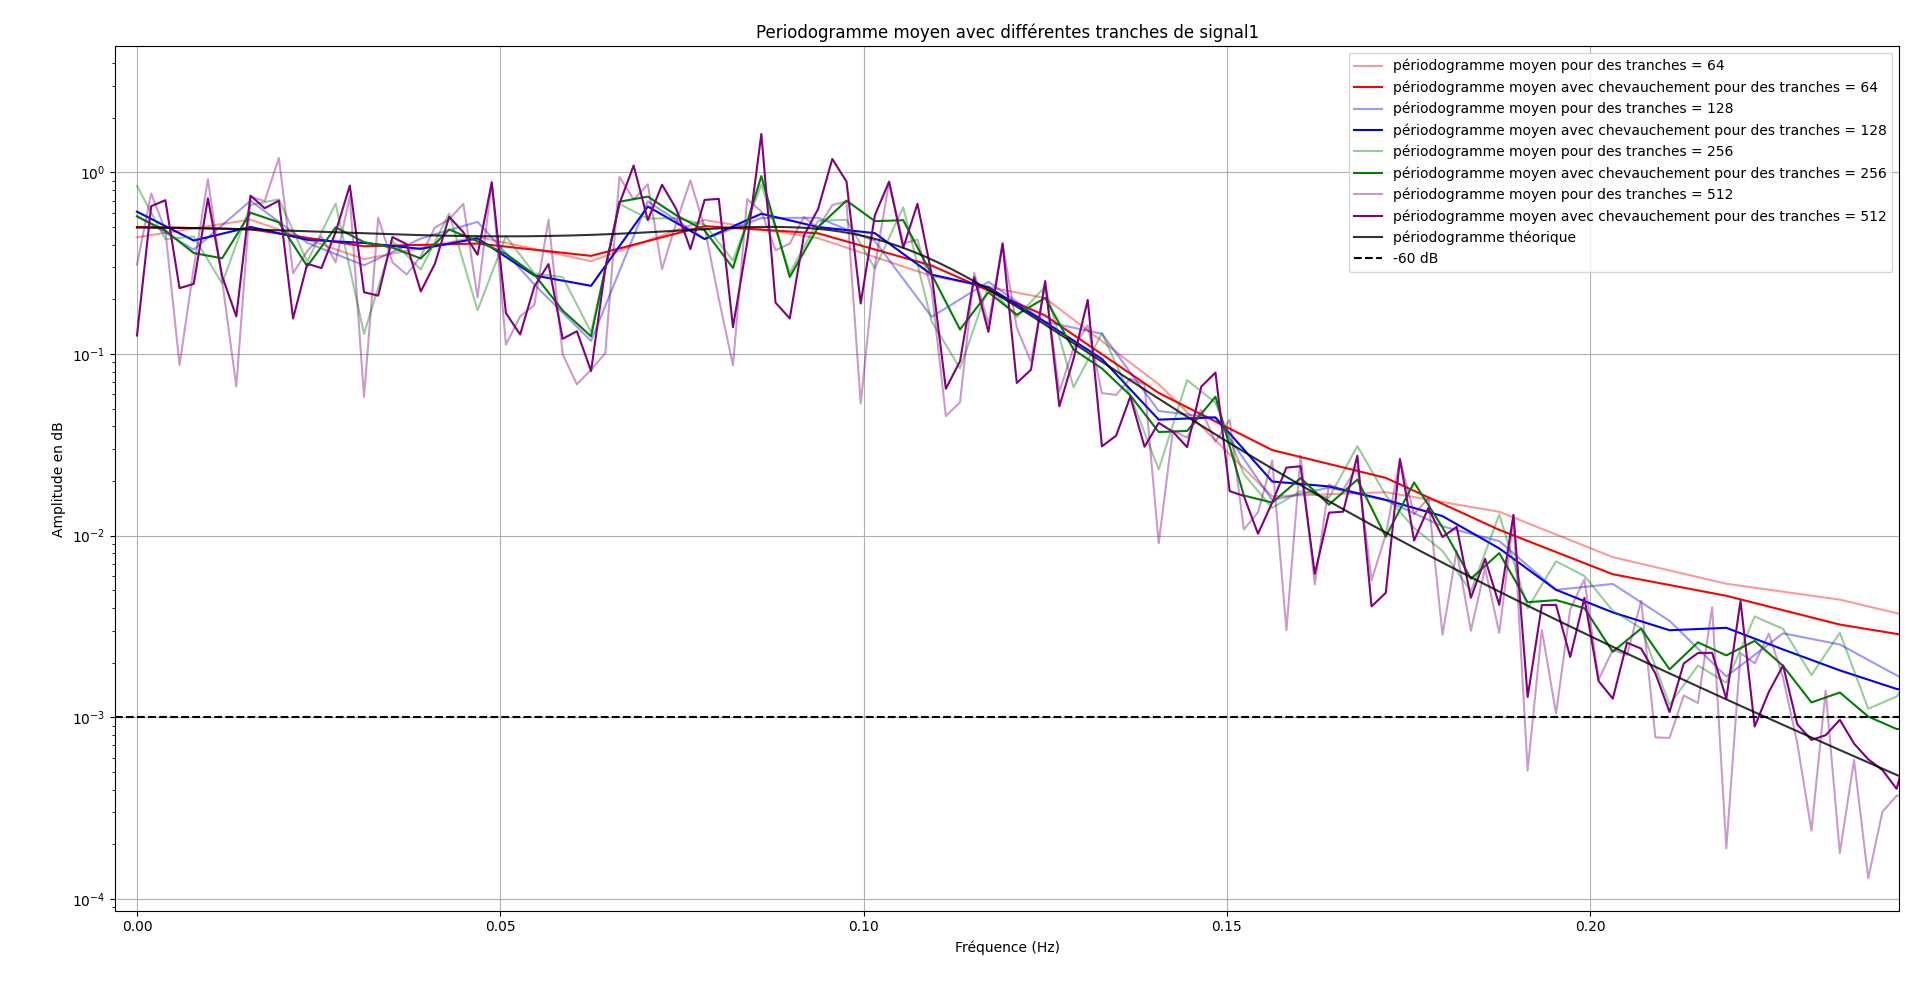
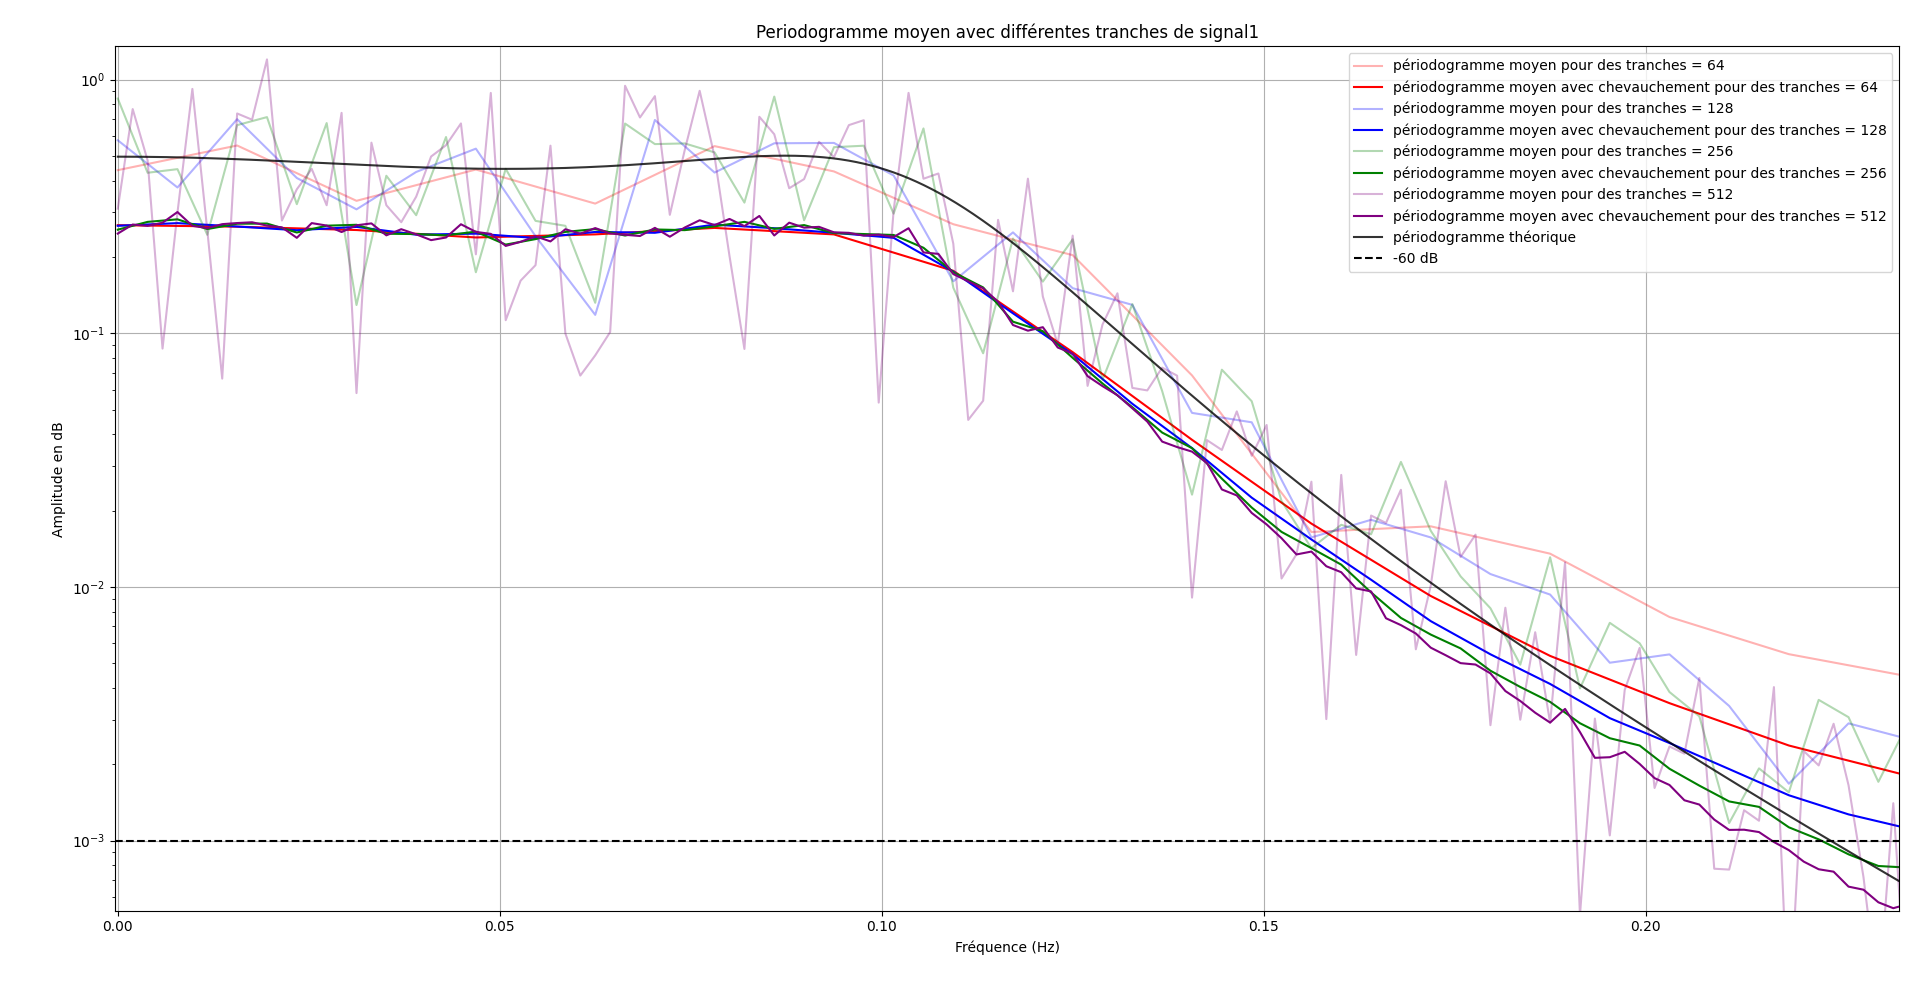
done

diff --git a/DM_partie2.py b/DM_partie2.py
@@ -99,7 +99,7 @@ def ex1_signal_et_bruit():
     signals = [signal1, bruit]
     signaltxt = ['signal1', 'bruit']
     modeles_theoriques = [pos_periodogramme_th * variance, (sigma_bb**2) * np.ones(len(pos_periodogramme_th))]
-    K = 16
+    K = 30
 
     for i in range(len(signals)):
         signal = signals[i]
@@ -205,7 +205,7 @@ def ex1_signal_et_bruit():
 
 def ex1_sinus():
     
-    K = 32  # Nombre de tranches pour l'estimation
+    K = 30  # Nombre de tranches pour l'estimation
     liste_N = [128, 256, 512, 1024]  # Différentes valeurs de N
     liste_col = ['red', 'blue', 'green', 'purple']  # Couleurs pour les graphes
     
@@ -217,7 +217,7 @@ def ex1_sinus():
     for i, N in enumerate(liste_N):
         # Génération du signal sinusoïdal
         A = 1.0  # Amplitude du signal
-        nu_0 = 10/N # Fréquence réduite (par exemple, ν₀ = 0.1)
+        nu_0 = int(0.1 * N)/N # Fréquence réduite (par exemple, ν₀ = 0.1)
         phi = 0.2  # Phase initiale
         t = np.arange(0, K * N)  # Temps discret
         signal = A * np.sin(2 * np.pi * nu_0 * t + phi)  # Signal sinusoïdal
@@ -264,7 +264,7 @@ def ex1_sinus():
     plt.show()
 
 
-    K = 32  # Nombre de tranches pour l'estimation
+    K = 30  # Nombre de tranches pour l'estimation
     liste_N = [128, 256, 512, 1024]  # Différentes valeurs de N
     liste_col = ['red', 'blue', 'green', 'purple']  # Couleurs pour les graphes
     
@@ -276,7 +276,7 @@ def ex1_sinus():
     for i, N in enumerate(liste_N):
         # Génération du signal sinusoïdal
         A = 1.0  # Amplitude du signal
-        nu_0 = (10 + 1/2)/N # Fréquence réduite (par exemple, ν₀ = 0.1)
+        nu_0 = (int(0.1*N) + 1/2)/N # Fréquence réduite (par exemple, ν₀ = 0.1)
         phi = 0.2  # Phase initiale
         t = np.arange(0, K * N)  # Temps discret
         signal = A * np.sin(2 * np.pi * nu_0 * t + phi)  # Signal sinusoïdal
@@ -303,7 +303,6 @@ def ex1_sinus():
         model_theorique = N * A**2 / 4
 
         # Création des subplots pour chaque N
-        plt.subplot(2, 2, i + 1)
         plt.grid(True)
         plt.xlabel("Fréquence réduite")
         plt.ylabel("Amplitude")
@@ -313,10 +312,10 @@ def ex1_sinus():
         # Tracé du périodogramme moyen, simple et théorique
         plt.plot(pos_freqs, periodogramme_moyen, label="Périodogramme moyen sur K tranches de taile N", color=col_)
         plt.plot(pos_freqs, liste_periodo_simples[-1], label="Périodogramme simple pour une tranche de taille N", color=col_, alpha=0.4)
-        plt.stem([nu_0], [model_theorique], linefmt='black', label="Périodogramme théorique", basefmt=" ")
+    plt.stem([nu_0], [model_theorique], linefmt='black', label="Périodogramme théorique", basefmt=" ")
 
-        plt.legend()
-        plt.yscale('log')
+    plt.legend()
+    plt.yscale('log')
 
     plt.tight_layout()
     plt.show()
@@ -357,12 +356,13 @@ def ex2():
                 tfd = np.fft.fft(signal[start_index:start_index+taille_tranche])
                 freqs= np.fft.fftfreq(taille_tranche)
                 periodogramme_liste.append(np.abs(tfd)* np.abs(tfd) / taille_tranche)
-
-            for j in range(1050-taille_tranche):
-                start_index = j
+            
+            start_index = 0
+            while start_index+taille_tranche<len(signal):
                 tfd = np.fft.fft(signal[start_index:start_index+taille_tranche])
                 freqs= np.fft.fftfreq(taille_tranche)
                 periodogramme_liste_chevauchement.append(np.abs(tfd)* np.abs(tfd) / taille_tranche)
+                start_index += taille_tranche//2
 
             periodo_moyen = compute_statistics(periodogramme_liste)['mean']
             periodo_moyen_chevauchement = compute_statistics(periodogramme_liste_chevauchement)['mean']
@@ -380,7 +380,7 @@ def ex2():
             plt.yscale('log')
 
             # Plotting the reordered periodogram
-            plt.plot(positive_freqs, positive_periodo_moyen, label='périodogramme moyen pour des tranches = ' + str(taille_tranche), color=liste_col[Tranches.index(taille_tranche)], alpha=0.4)
+            plt.plot(positive_freqs, positive_periodo_moyen, label='périodogramme moyen pour des tranches = ' + str(taille_tranche), color=liste_col[Tranches.index(taille_tranche)], alpha=0.3)
             plt.plot(positive_freqs, positive_periodo_moyen_chevauchement, label='périodogramme moyen avec chevauchement pour des tranches = ' + str(taille_tranche), color=liste_col[Tranches.index(taille_tranche)])
         
         if i==2:
@@ -432,11 +432,12 @@ def ex3():
                 freqs= np.fft.fftfreq(taille_tranche)
                 periodogramme_liste.append(np.abs(tfd)* np.abs(tfd) / taille_tranche)
 
-            for j in range(1050-taille_tranche):
-                start_index = j
+            start_index = 0
+            while start_index+taille_tranche<len(signal):
                 tfd = np.fft.fft(signal[start_index:start_index+taille_tranche]*fenetre)
                 freqs= np.fft.fftfreq(taille_tranche)
                 periodogramme_liste_chevauchement.append(np.abs(tfd)* np.abs(tfd) / taille_tranche)
+                start_index += taille_tranche//2
 
             periodo_moyen = compute_statistics(periodogramme_liste)['mean']
             periodo_moyen_chevauchement = compute_statistics(periodogramme_liste_chevauchement)['mean']
@@ -472,7 +473,6 @@ def ex3():
 
 
 
-
 def ex4():
     # Spécifier le chemin relatif du fichier dans le sous-dossier
     file_path = 'docs_consigne/signal'
@@ -481,7 +481,7 @@ def ex4():
     try:
         with open(file_path, 'rb') as f:
             # Lire les données brutes du fichier audio
-            audio_data = np.fromfile(f, dtype=np.int16)  # Assurez-vous que le type est correct pour votre fichier
+            signal = np.fromfile(f, dtype=np.float32)  # Assurez-vous que le type est correct pour votre fichier
     except Exception as e:
         print(f"Erreur lors du chargement du fichier : {e}")
         return
@@ -489,48 +489,70 @@ def ex4():
     # Afficher la longueur du signal et la fréquence d'échantillonnage
     sample_rate = 44100  # Exemple de fréquence d'échantillonnage, à ajuster selon le fichier
     print(f"Fréquence d'échantillonnage : {sample_rate} Hz")
-    print(f"Longueur du signal : {len(audio_data)} échantillons")
+    print(f"Longueur du signal : {len(signal)} échantillons")
     
     # Définir le nombre de segments pour le périodogramme moyen
-    segment_length = 1024  # Longueur de chaque segment
-    overlap = 512  # Chevauchement entre les segments
-    noverlap = segment_length - overlap
+    taille_tranche = 2048  # Longueur de chaque segment
+    liste_col = ['red','blue','green','purple']
 
-    # Fonction pour calculer le périodogramme moyen
-    def compute_periodogram(signal, segment_length, noverlap, window_func):
-        # Découper le signal en segments
-        f, Pxx = plt.psd(signal, NFFT=segment_length, Fs=sample_rate, noverlap=noverlap, window=window_func)
-        return f, Pxx
 
     # Fenêtres à utiliser : rectangulaire, Hamming et Hanning
     windows = {
-        'Rectangulaire': np.ones(segment_length),
-        'Hamming': np.hamming(segment_length),
-        'Hanning': np.hanning(segment_length)
+        'Rectangulaire': np.ones(taille_tranche),
+        'Hamming': np.hamming(taille_tranche),
+        'triangulaire': np.bartlett(taille_tranche),
+        'Blackman': np.blackman(taille_tranche)
+        
     }
     
     # Affichage des périodogrammes moyens pour chaque fenêtre
     plt.figure(figsize=(15, 10))
+    plt.title(f"Différents périodogrammes pour le signal à traiter")
 
-    for i, (window_name, window_func) in enumerate(windows.items()):
-        plt.subplot(3, 1, i + 1)
-        f, Pxx = compute_periodogram(audio_data, segment_length, noverlap, window_func)
-        plt.semilogy(f, Pxx)
-        plt.title(f"Périodogramme moyen avec fenêtre {window_name}")
-        plt.xlabel("Fréquence [Hz]")
-        plt.ylabel("Densité de puissance [V^2/Hz]")
+    for i, (fenetretxt, fenetre) in enumerate(windows.items()):
+        periodogramme_liste=[]
+        periodogramme_liste_chevauchement = []
+        for j in range(len(signal)//taille_tranche):
+            start_index = j*taille_tranche
+            tfd = np.fft.fft(signal[start_index:start_index+taille_tranche]*fenetre)
+            freqs= np.fft.fftfreq(taille_tranche)
+            periodogramme_liste.append(np.abs(tfd)* np.abs(tfd) / taille_tranche)
+
+        start_index = 0
+        while start_index+taille_tranche<len(signal):
+            tfd = np.fft.fft(signal[start_index:start_index+taille_tranche]*fenetre)
+            freqs= np.fft.fftfreq(taille_tranche)
+            periodogramme_liste_chevauchement.append(np.abs(tfd)* np.abs(tfd) / taille_tranche)
+            start_index += taille_tranche//4
+
+        periodo_moyen = compute_statistics(periodogramme_liste)['mean']
+        periodo_moyen_chevauchement = compute_statistics(periodogramme_liste_chevauchement)['mean']
+
+        # Separate and reorder the frequencies and corresponding amplitudes
+        positive_freqs = freqs[freqs >= 0]
+        positive_periodo_moyen = periodo_moyen[freqs >= 0]
+        positive_periodo_moyen_chevauchement = periodo_moyen_chevauchement[freqs >= 0]
+
         plt.grid(True)
+        plt.xlabel("Fréquence (Hz)")
+        plt.ylabel("Amplitude en dB")
+        plt.yscale('log')
 
-    plt.tight_layout()
+        # Plotting the reordered periodogram
+        plt.plot(positive_freqs, positive_periodo_moyen, label='périodogramme moyen pour une fenêtre de = ' + fenetretxt, color=liste_col[i], alpha=0.4)
+        plt.plot(positive_freqs, positive_periodo_moyen_chevauchement, label='périodogramme moyen avec chevauchement pour une fenêtre de = ' + fenetretxt, color=liste_col[i])
+ 
+    plt.legend()
     plt.show()
 
 
+
 if __name__ == "__main__":
-    ex4()
     intro()
     ex1_signal_et_bruit()
     ex1_sinus()
     ex2()
     ex3()
+    ex4()
 
 
